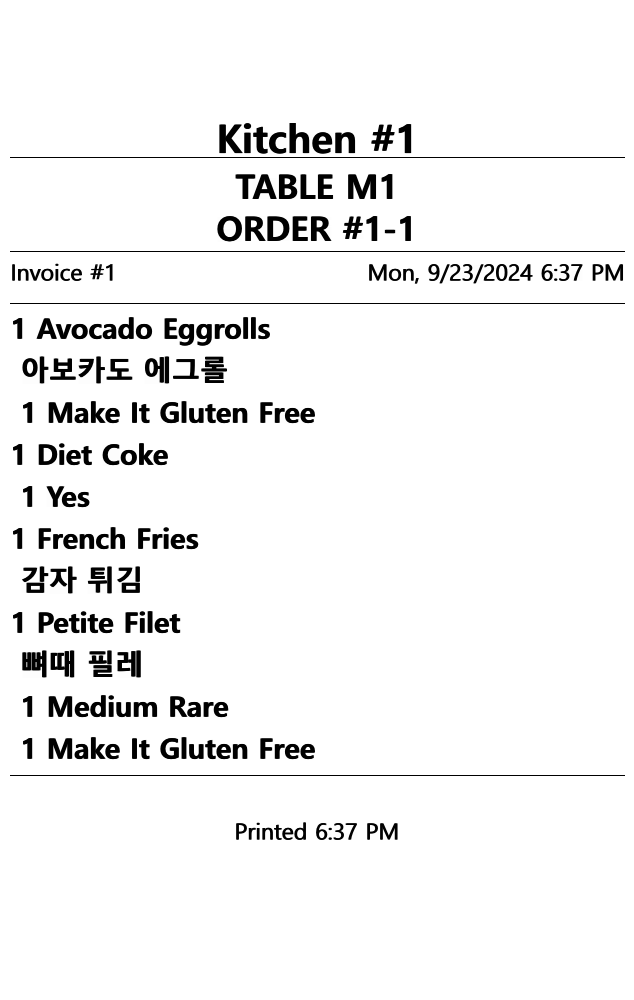
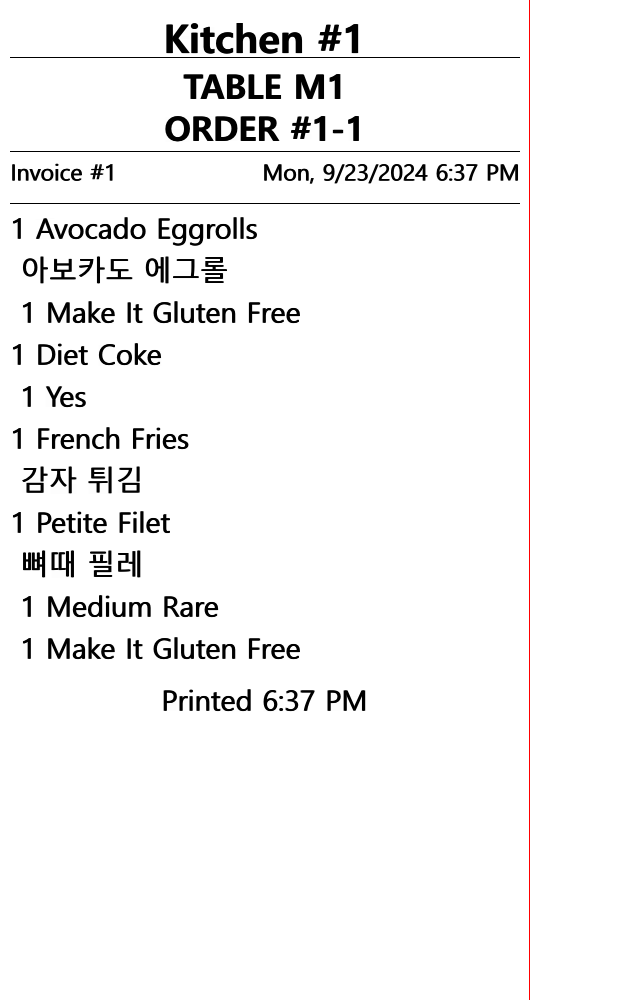
add README

Changed region(s): [[0.0, 0.0, 0.989, 0.775], [0.3596, 0.806, 0.6293, 0.837], [0.0, 0.155, 0.1798, 0.186]]

diff --git a/src/main.rs b/src/main.rs
@@ -11,9 +11,10 @@ use windows::Win32::Storage::Xps::{EndDoc, EndPage, StartDocW, StartPage, DOCINF
 
 const DPI: f32 = 203.0;
 const RECEIPT_WIDTH_INCHES: f32 = 3.125;
-const RECEIPT_WIDTH_PIXELS: u32 = (RECEIPT_WIDTH_INCHES * DPI) as u32;
-const RIGHT_MARGIN: i32 = 10; // 오른쪽 여백 증가
-const LEFT_MARGIN: i32 = 10; // 왼쪽 여백 추가
+const CANVAS_WIDTH: u32 = (RECEIPT_WIDTH_INCHES * DPI) as u32;
+const PRINTABLE_WIDTH: u32 = CANVAS_WIDTH - 105; // 실제 프린트 가능 영역
+const RIGHT_MARGIN: i32 = 10;
+const LEFT_MARGIN: i32 = 10;
 
 struct PrintConfig {
     image_scale: f32,
@@ -23,10 +24,10 @@ struct PrintConfig {
 fn main() -> Result<(), Error> {
     let config = PrintConfig {
         image_scale: 1.0,
-        print_scale: 1.0,
+        print_scale: PRINTABLE_WIDTH as f32 / CANVAS_WIDTH as f32, // 프린트 시 스케일 조정
     };
 
-    let width = (RECEIPT_WIDTH_PIXELS as f32 * config.image_scale) as u32;
+    let width = CANVAS_WIDTH;
     let height = 1000;
     let mut img: RgbaImage = ImageBuffer::new(width, height);
     img.fill(255);
@@ -52,16 +53,10 @@ fn main() -> Result<(), Error> {
             .map(|g| g.position().x + g.unpositioned().h_metrics().advance_width)
             .last()
             .unwrap_or(0.0);
-        println!(
-            "width: {} text_width: {} scale: {}",
-            width,
-            text_width,
-            size * DPI / 54.0
-        );
         let x = match align {
             TextAlign::Left => LEFT_MARGIN + indent,
-            TextAlign::Center => ((width as f32 - text_width) / 2.0) as i32,
-            TextAlign::Right => width as i32 - text_width as i32 - RIGHT_MARGIN - indent,
+            TextAlign::Center => ((PRINTABLE_WIDTH as f32 - text_width) / 2.0) as i32,
+            TextAlign::Right => PRINTABLE_WIDTH as i32 - text_width as i32 - RIGHT_MARGIN - indent,
         };
         draw_text_mut(img, Rgba([0, 0, 0, 255]), x, *y, scale, font_to_use, text);
         draw_text_mut(
@@ -80,7 +75,7 @@ fn main() -> Result<(), Error> {
         draw_line_segment_mut(
             img,
             (LEFT_MARGIN as f32, y as f32),
-            ((width - RIGHT_MARGIN as u32) as f32, y as f32),
+            ((PRINTABLE_WIDTH - RIGHT_MARGIN as u32) as f32, y as f32),
             Rgba([0, 0, 0, 255]),
         );
     };
@@ -91,8 +86,6 @@ fn main() -> Result<(), Error> {
         Center,
         Right,
     }
-
-    y_offset += 100;
 
     // Add receipt content
     add_text(
@@ -156,7 +149,7 @@ fn main() -> Result<(), Error> {
         &mut img,
         "1 Avocado Eggrolls",
         10.0,
-        true,
+        false,
         &mut y_offset,
         TextAlign::Left,
         0,
@@ -165,7 +158,7 @@ fn main() -> Result<(), Error> {
         &mut img,
         "아보카도 에그롤",
         10.0,
-        true,
+        false,
         &mut y_offset,
         TextAlign::Left,
         10,
@@ -174,7 +167,7 @@ fn main() -> Result<(), Error> {
         &mut img,
         "1 Make It Gluten Free",
         10.0,
-        true,
+        false,
         &mut y_offset,
         TextAlign::Left,
         10,
@@ -183,7 +176,7 @@ fn main() -> Result<(), Error> {
         &mut img,
         "1 Diet Coke",
         10.0,
-        true,
+        false,
         &mut y_offset,
         TextAlign::Left,
         0,
@@ -192,7 +185,7 @@ fn main() -> Result<(), Error> {
         &mut img,
         "1 Yes",
         10.0,
-        true,
+        false,
         &mut y_offset,
         TextAlign::Left,
         10,
@@ -201,7 +194,7 @@ fn main() -> Result<(), Error> {
         &mut img,
         "1 French Fries",
         10.0,
-        true,
+        false,
         &mut y_offset,
         TextAlign::Left,
         0,
@@ -210,7 +203,7 @@ fn main() -> Result<(), Error> {
         &mut img,
         "감자 튀김",
         10.0,
-        true,
+        false,
         &mut y_offset,
         TextAlign::Left,
         10,
@@ -219,7 +212,7 @@ fn main() -> Result<(), Error> {
         &mut img,
         "1 Petite Filet",
         10.0,
-        true,
+        false,
         &mut y_offset,
         TextAlign::Left,
         0,
@@ -228,7 +221,7 @@ fn main() -> Result<(), Error> {
         &mut img,
         "뼈때 필레",
         10.0,
-        true,
+        false,
         &mut y_offset,
         TextAlign::Left,
         10,
@@ -237,7 +230,7 @@ fn main() -> Result<(), Error> {
         &mut img,
         "1 Medium Rare",
         10.0,
-        true,
+        false,
         &mut y_offset,
         TextAlign::Left,
         10,
@@ -246,23 +239,27 @@ fn main() -> Result<(), Error> {
         &mut img,
         "1 Make It Gluten Free",
         10.0,
-        true,
+        false,
         &mut y_offset,
         TextAlign::Left,
         10,
     );
-    y_offset += 5;
-    add_line(&mut img, y_offset);
-    y_offset += 40;
+
+    y_offset += 10;
     add_text(
         &mut img,
         "Printed 6:37 PM",
-        8.0,
+        10.0,
         false,
         &mut y_offset,
         TextAlign::Center,
         0,
     );
+
+    // 프린트 가능 영역 표시
+    for y in 0..height {
+        img.put_pixel(PRINTABLE_WIDTH as u32, y, Rgba([255, 0, 0, 255]));
+    }
 
     // Save image to file for debugging
     let output_path = Path::new("receipt_debug.png");

diff --git a/README.md b/README.md
@@ -1,0 +1,9 @@
+# windows-rs를 이용한 윈도우즈 프린터 디바이스 프린팅
+
+## 소개
+
+windows-rs를 이용하여 윈도우즈 프린터 디바이스 프린팅을 구현하는 방법을 설명합니다.
+
+
+- windows-rs
+- 
